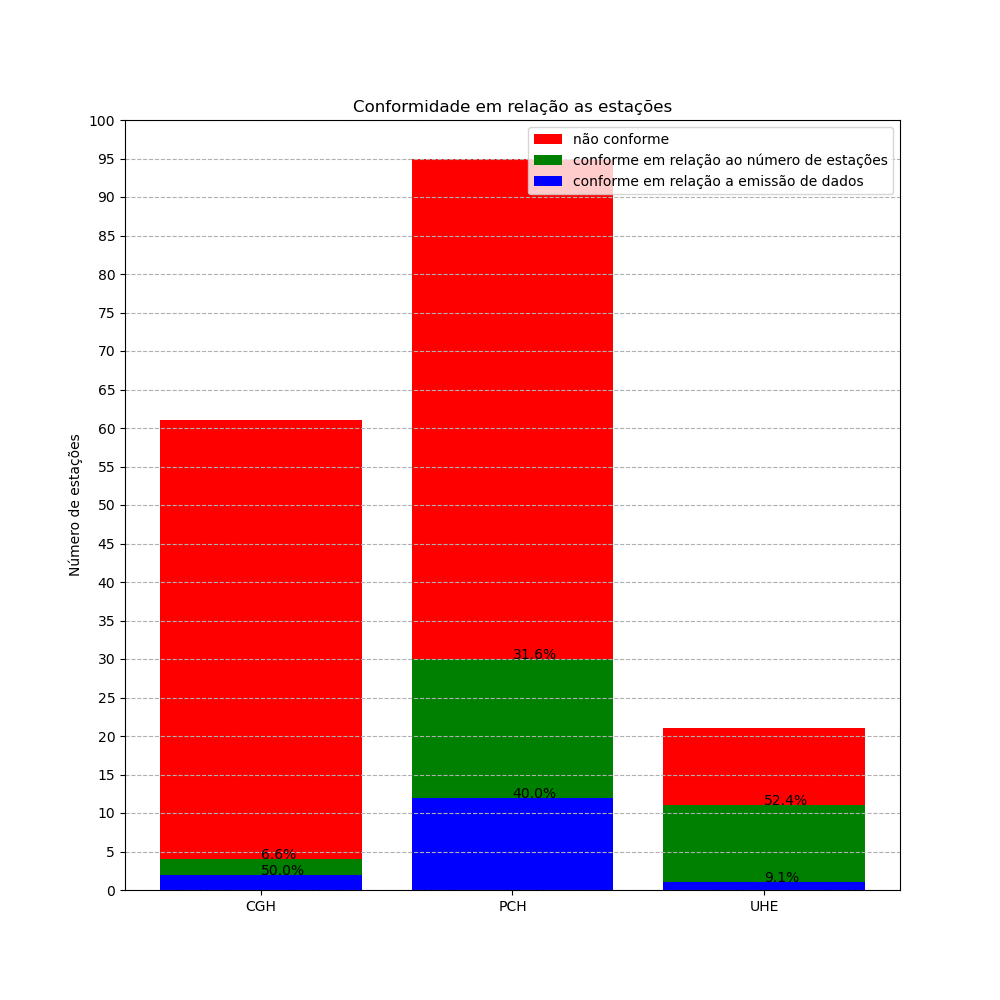
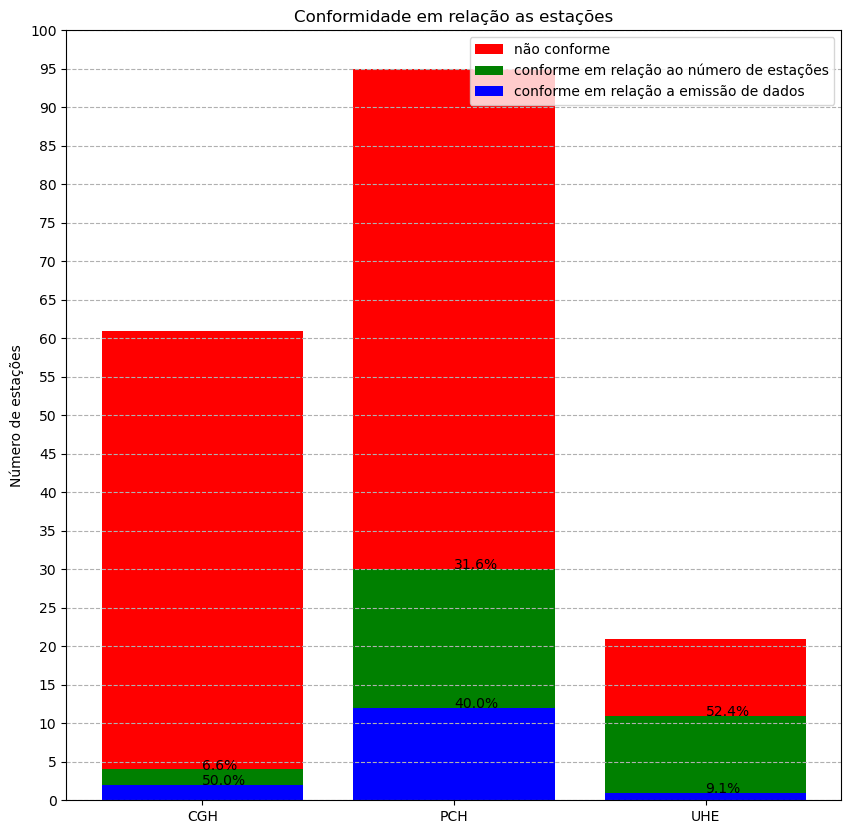
small fixes

diff --git a/gerar_relatorio.py b/gerar_relatorio.py
@@ -365,7 +365,7 @@ plt.yticks([i for i in range(0, max(count)+10, 5)])
 plt.legend()
 plt.ylabel('Número de estações')
 plt.title('Conformidade em relação as estações')
-plt.savefig('imagens/monitoramento_{}'.format(today), transparent=False, dpi=100)
+plt.savefig('imagens/monitoramento_{}'.format(today), transparent=False, dpi=100, bbox_inches='tight')
 
 #generating html files
 print('Gerando arquivos html... \n')
